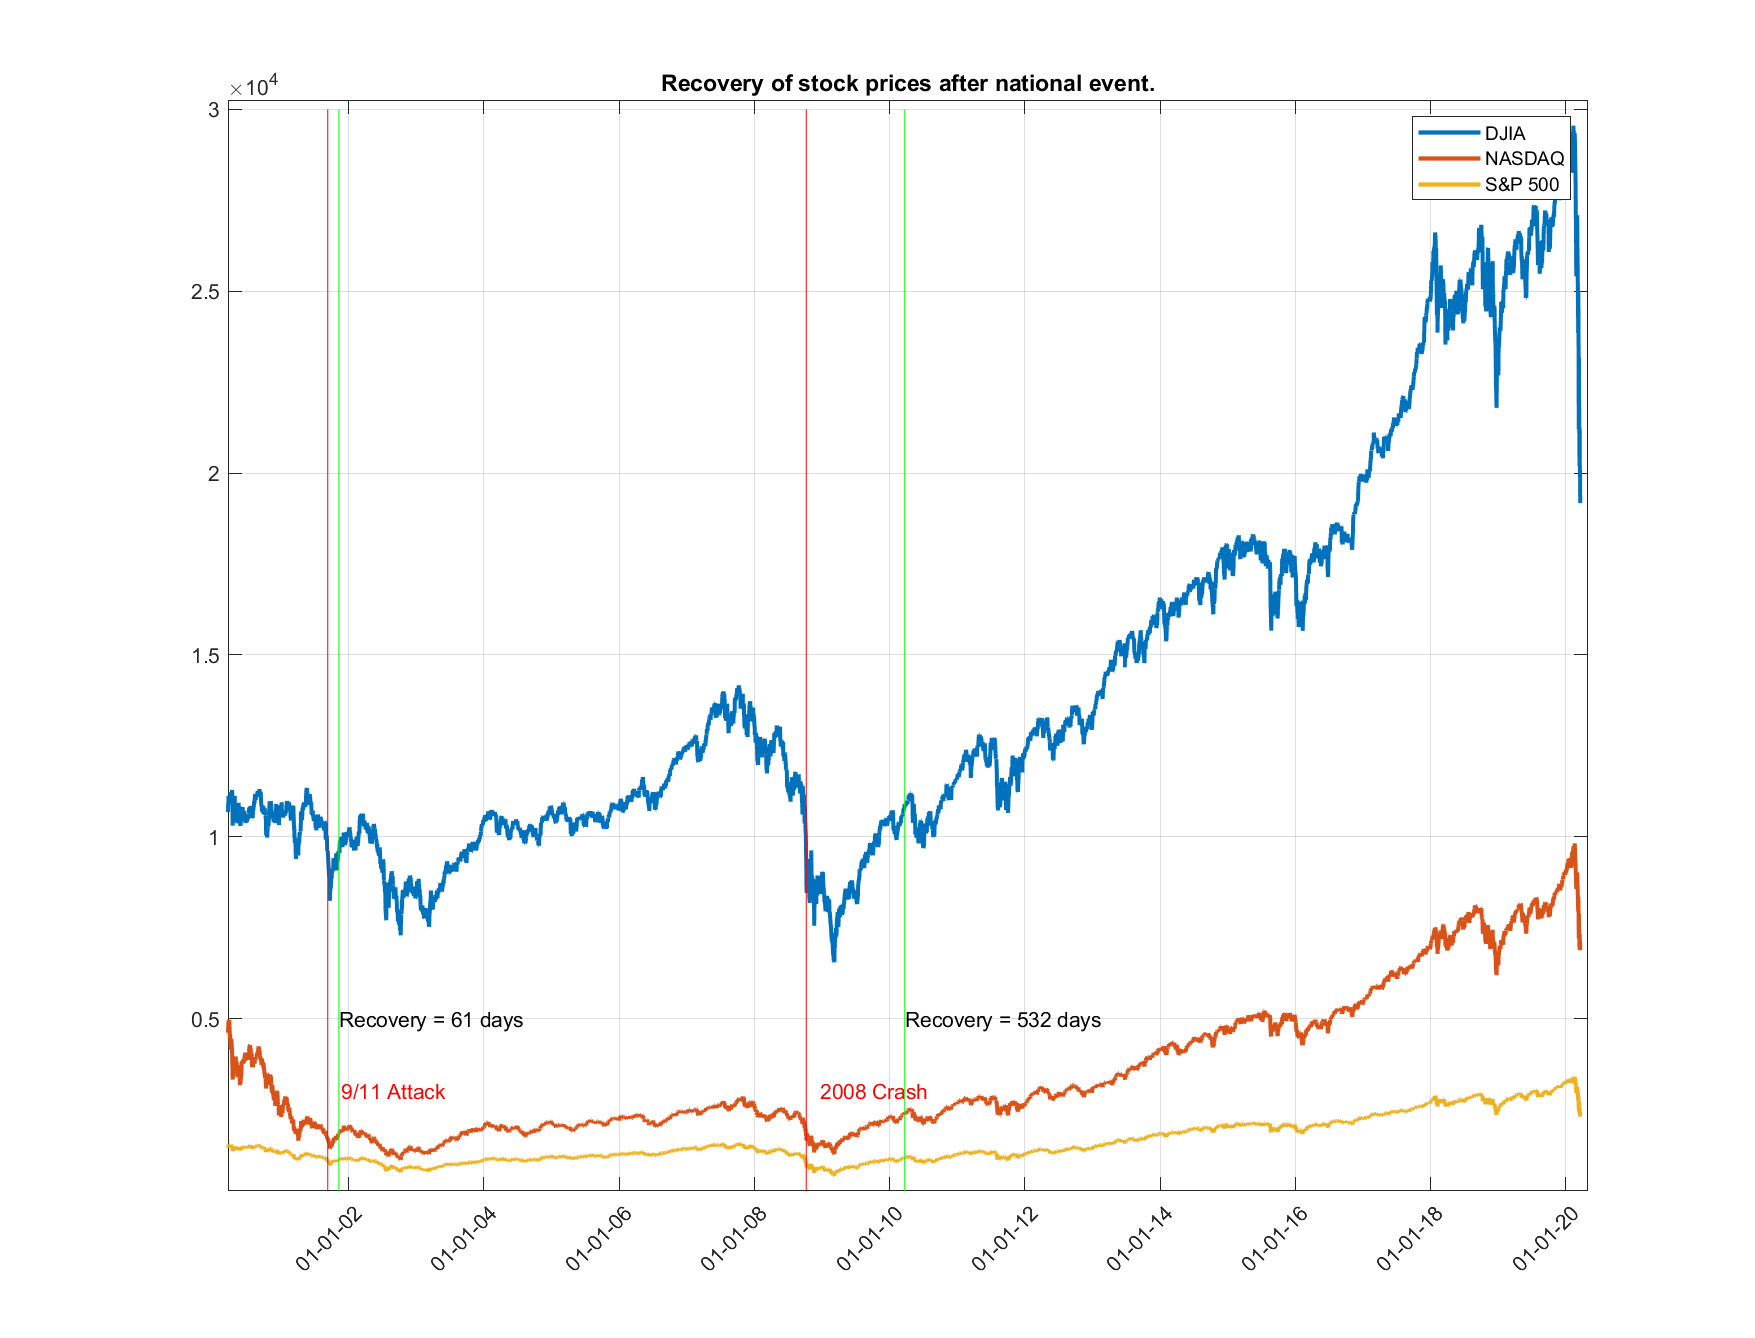
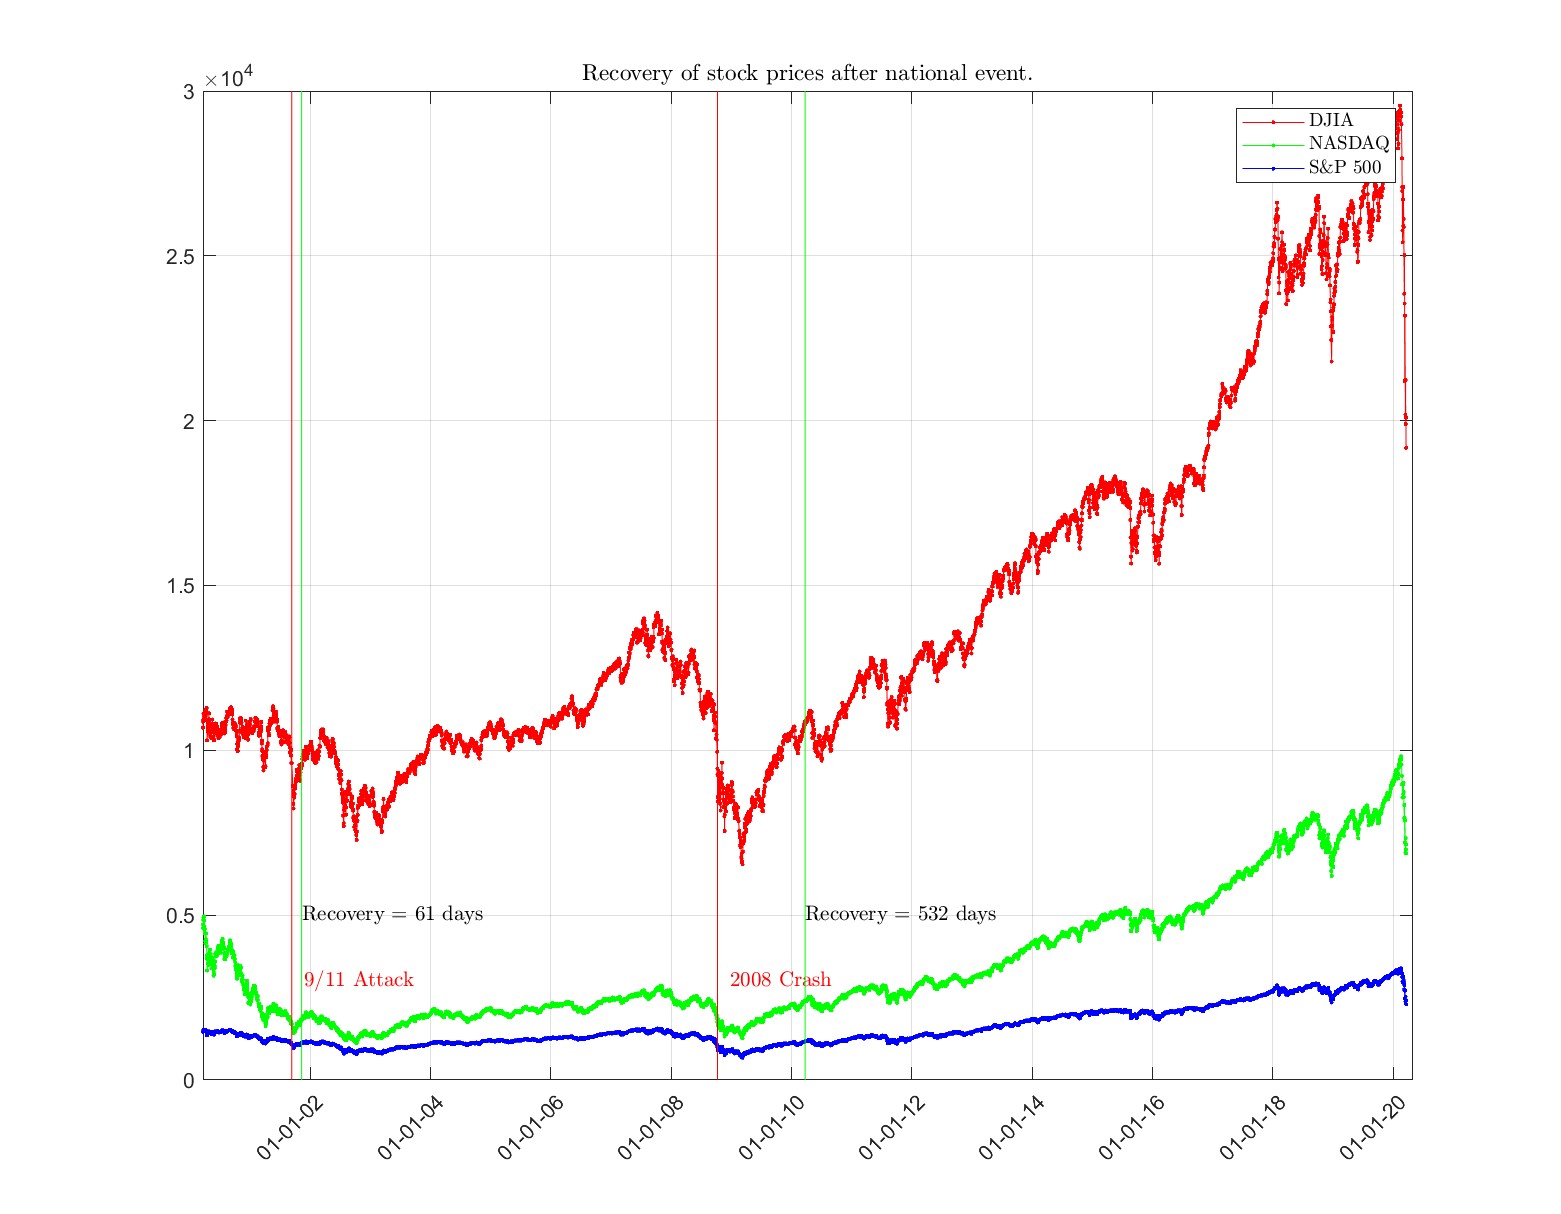
COVID-19 update

diff --git a/notebooks/Examples/coronavirus/matlab/Stock_Market_Analysis/stock_recovery.m b/notebooks/Examples/coronavirus/matlab/Stock_Market_Analysis/stock_recovery.m
@@ -3,14 +3,13 @@ SnP500 = readtable('HistoricalPrices_SnP500_2000_2020.csv');
 NASDAQ = readtable('HistoricalPrices_NASDAQ_2000_2020.csv');
 
 figure(1)
-plot(DJIA.Date,DJIA.Close,...
-    NASDAQ.Date,NASDAQ.Close,...
-    SnP500.Date,SnP500.Close,...
-    'LineWidth',2)
+plot(DJIA.Date,DJIA.Close,'r.-',...
+    NASDAQ.Date,NASDAQ.Close,'g.-',...
+    SnP500.Date,SnP500.Close,'b.-')
 datetick('x', 'mm-dd-yy', 'keepticks')
-legend('DJIA','NASDAQ','S&P 500')
+legend('DJIA','NASDAQ','S\&P 500','Interpreter','latex')
 xtickangle(45)
-title('Recovery of stock prices after national event.')
+title('Recovery of stock prices after national event.','Interpreter','latex')
 xlim([datetime('03/20/0000') datetime('05/01/0020')])
 
 d1 = datetime('09/10/0001');
@@ -18,13 +17,15 @@ d2 = datetime('11/09/0001');
 between(d1,d2,'Days')
 vline(d1,'r','9/11 Attack')
 vline(d2,'g')
-text(datetime('11/09/0001'),0.5e4,'Recovery = 61 days');
+text(datetime('11/09/0001'),0.5e4,'Recovery = 61 days','Interpreter','latex');
 
 d1 = datetime('10/08/0008');
 d2 = datetime('03/24/0010');
 between(d1,d2,'Days')
 vline(d1,'r','2008 Crash')
 vline(d2,'g')
-text(datetime('03/24/0010'),0.5e4,'Recovery = 532 days');
+text(datetime('03/24/0010'),0.5e4,'Recovery = 532 days','Interpreter','latex');
+
+dock_all_figures
 
 save_all_figs_OPTION('stock_recovery','png')
